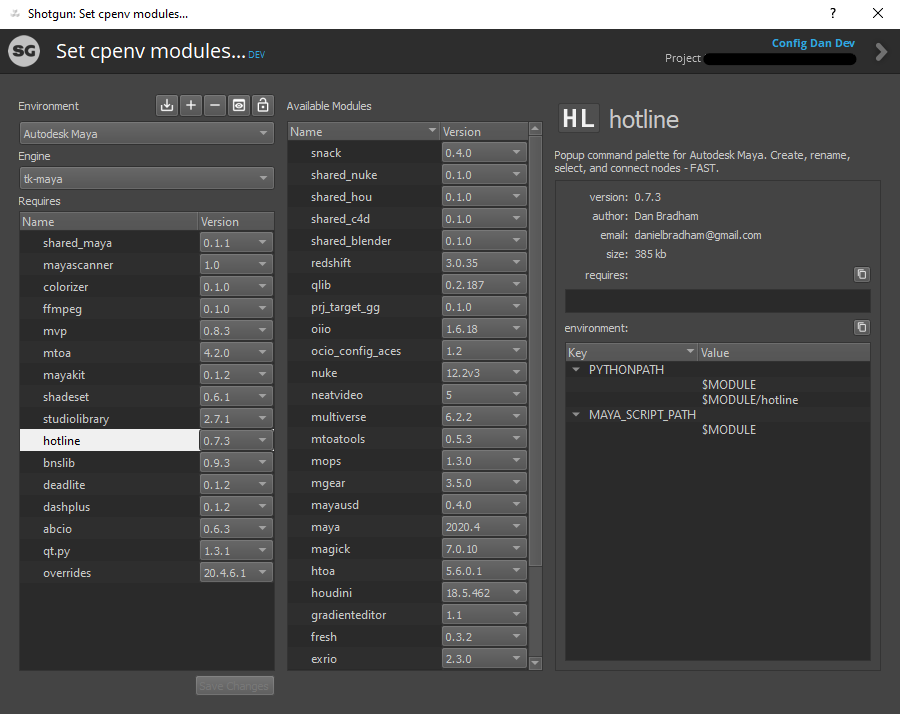
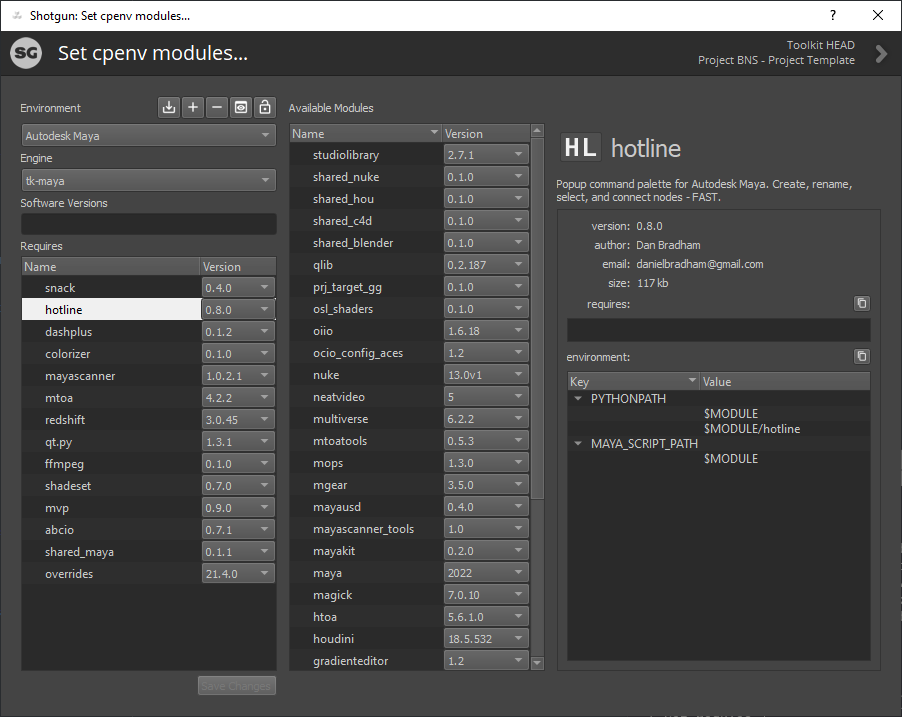
Update README.md

diff --git a/README.md b/README.md
@@ -1,5 +1,5 @@
 # tk-cpenv
-[![stable](https://img.shields.io/badge/version-0.4.0-green.svg)](https://semver.org)
+[![stable](https://img.shields.io/badge/version-0.5.0-green.svg)](https://semver.org)
 
 Integrates [cpenv](https://github.com/cpenv/cpenv) with Shotgun Toolkit.
 
@@ -148,6 +148,7 @@ To quickly verify that your module has been uploaded, you can use the `cpenv lis
     * Users will be prompted to select an Environment when they launch an application if they have permissions to multiple Environments for an engine.
     <img src="https://github.com/cpenv/tk-cpenv/blob/master/images/env_selector.png"/>
 
+5. Optionally restrict the Environment to certain software versions by enter the versions into the "Software Versions" field. Leaving it blank will make the Environment apply to all versions of the selected Engine's software. For example if you entered "2020 2022" for a "tk-maya" Environment, that would be activated for either Maya 2020 or Maya 2022.
 
-5. Save your changes! You're ready to launch some software.
+6. Save your changes! You're ready to launch some software.
 
